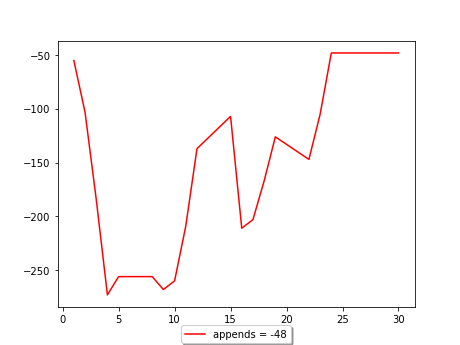
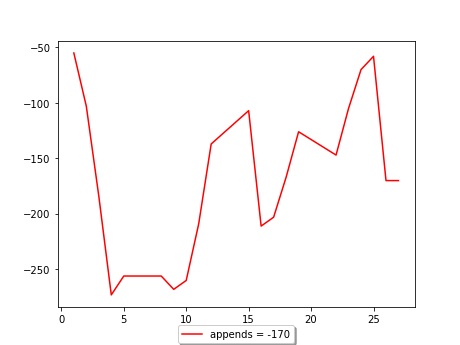
26

diff --git a/c16wiki/b2650schedule.html b/c16wiki/b2650schedule.html
@@ -126,20 +126,17 @@
 19 апреля 2024 г., 7:52 17:03<br />
 22 апреля 2024 г., 8:42 16:51<br />
 23 апреля 2024 г., 7:43 16:55<br />
-24 апреля 2024 г., 7:33 17:00<br />
-25 апреля 2024 г., 8:30 17:00<br />
-26 апреля 2024 г., 8:30 17:00<br />
-29 апреля 2024 г., 8:30 17:00<br />
-30 апреля 2024 г., 8:30 17:00  </p>
+24 апреля 2024 г., 7:33 16:38<br />
+25 апреля 2024 г., 8:03 16:45<br />
+26 апреля 2024 г., 10:22 17:00<br />
+27 апреля 2024 г., 8:30 17:00  </p>
 <h2 id="may">May</h2>
 <p><img alt="&quot;ttt&quot;" src="i265005time.png" />  </p>
-<p>1 мая 2024 г., 8:30 17:00<br />
-2 мая 2024 г., 8:30 17:00<br />
+<p>2 мая 2024 г., 8:30 17:00<br />
 3 мая 2024 г., 8:30 17:00<br />
 6 мая 2024 г., 8:30 17:00<br />
 7 мая 2024 г., 8:30 17:00<br />
 8 мая 2024 г., 8:30 17:00<br />
-10 мая 2024 г., 8:30 17:00<br />
 13 мая 2024 г., 8:30 17:00<br />
 14 мая 2024 г., 8:30 17:00<br />
 15 мая 2024 г., 8:30 17:00<br />

diff --git a/c16wiki/b2650schedule.md b/c16wiki/b2650schedule.md
@@ -104,9 +104,9 @@
 19 апреля 2024 г., 7:52 17:03
 22 апреля 2024 г., 8:42 16:51
 23 апреля 2024 г., 7:43 16:55
-24 апреля 2024 г., 7:33 17:00
-25 апреля 2024 г., 8:30 17:00
-26 апреля 2024 г., 8:30 17:00
+24 апреля 2024 г., 7:33 16:38
+25 апреля 2024 г., 8:03 16:45
+26 апреля 2024 г., 10:22 17:00
 27 апреля 2024 г., 8:30 17:00
 
 
